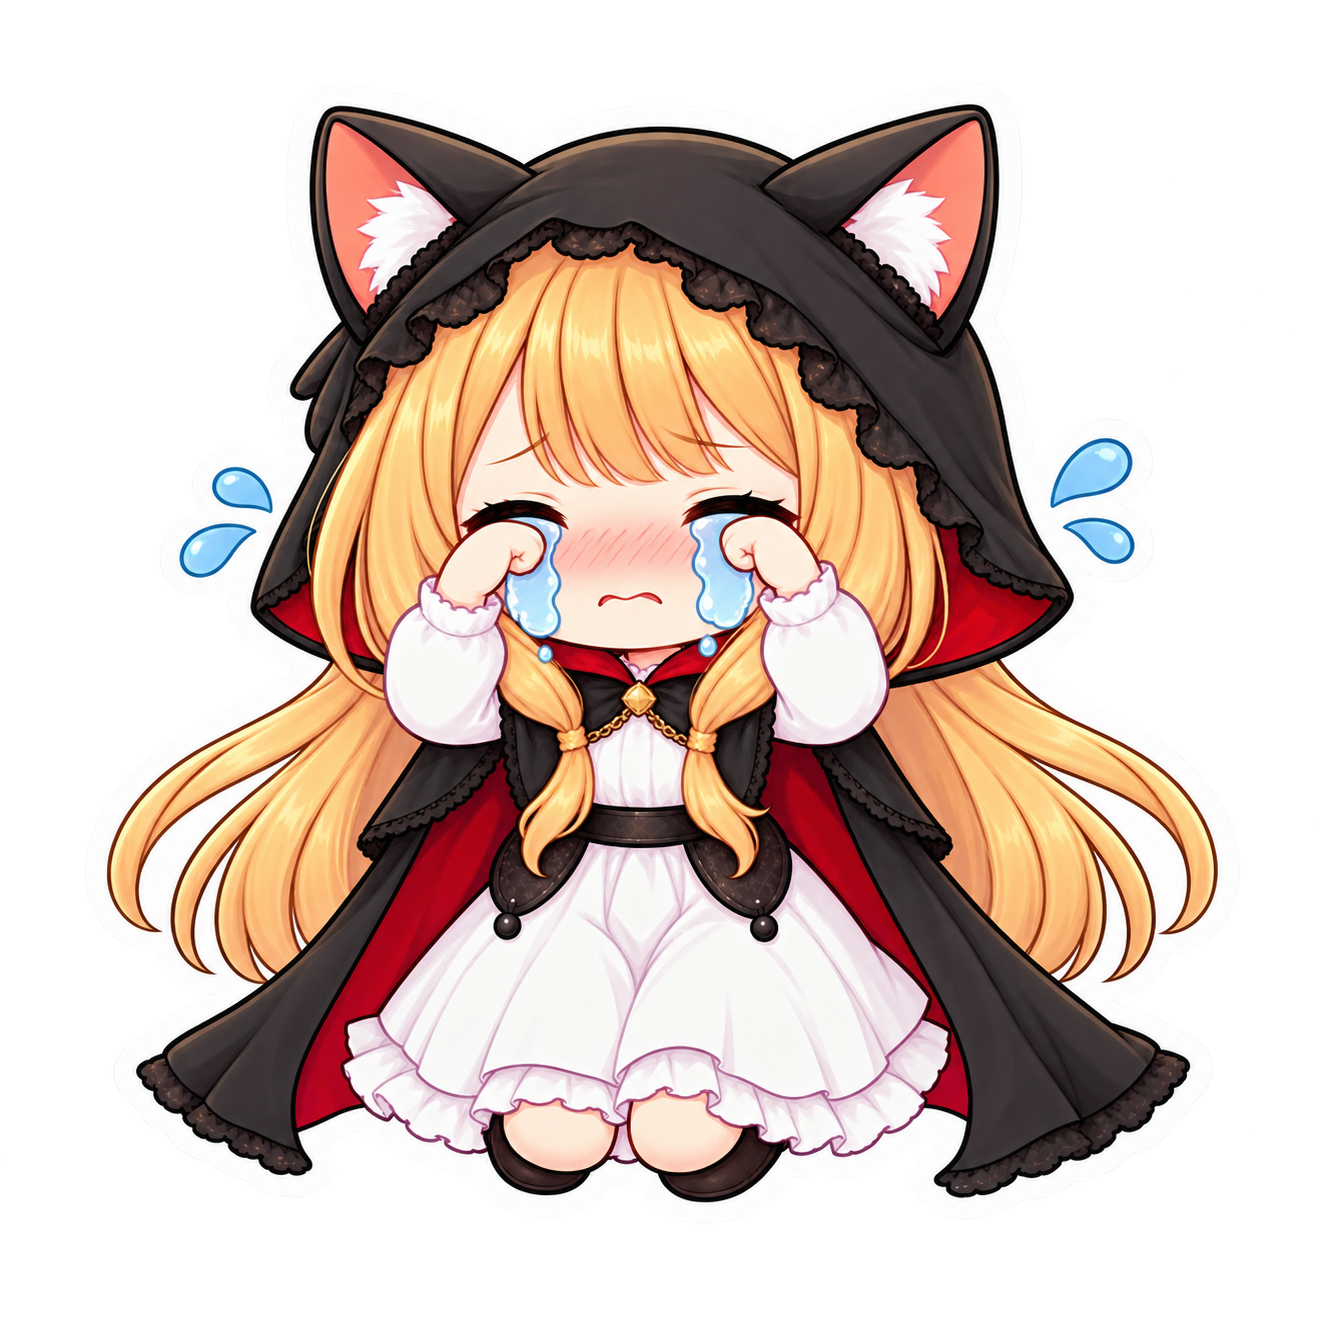
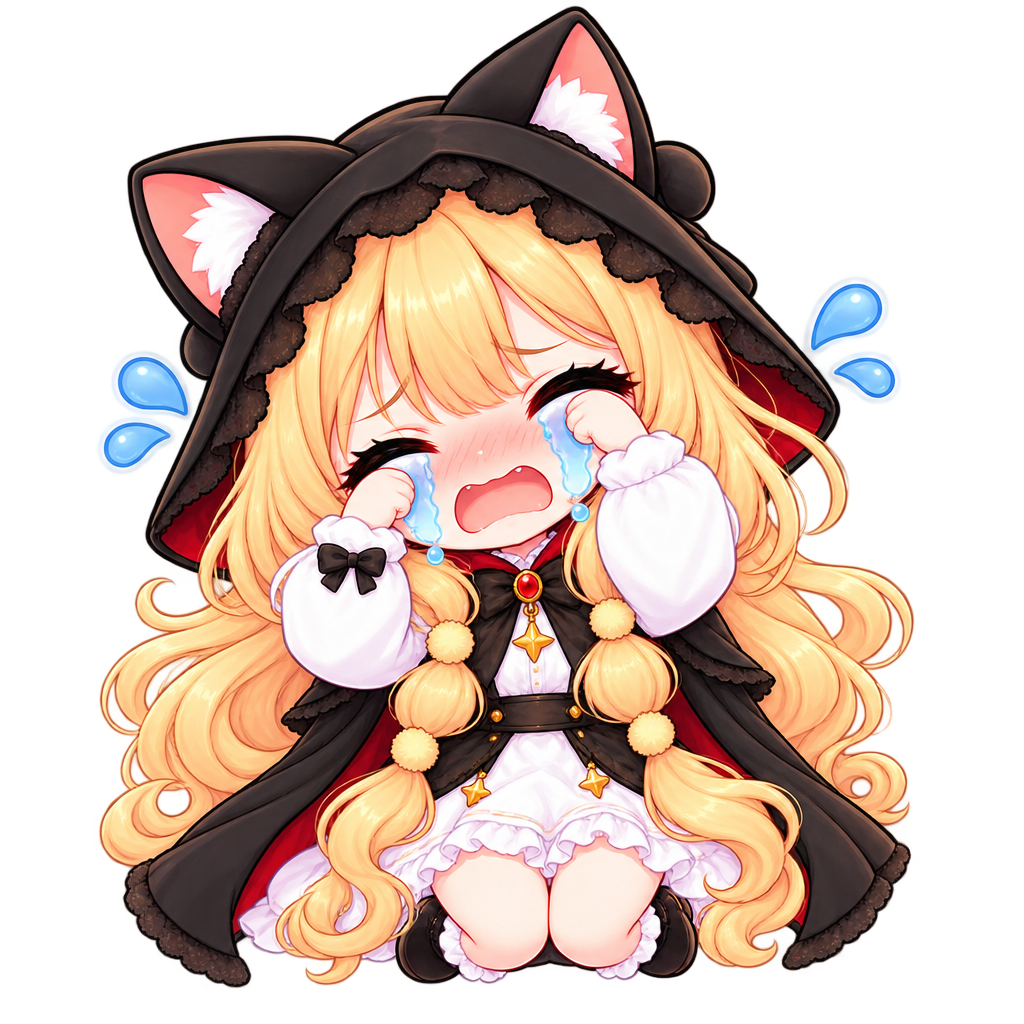
new stickers

diff --git a/index.html b/index.html
@@ -470,10 +470,11 @@
         (function() {
             // Меняйте PATCH_VERSION и PATCH_NOTE_TEXT при каждом обновлении сайта —
             // тогда уведомление покажется заново при первом заходе после обновления.
-            const PATCH_VERSION = '2026-09-06-2';
+            const PATCH_VERSION = '2026-09-06-3 ';
             const PATCH_NOTE_TEXT = `
                 <p>Что изменилось:</p>
                 <ul>
+                    <li>Добавлены новые стикеры а также улучшены старые</li>
                     <li>Рассортированы картинки и стикеры по парам</li>
                     <li>Были убраны не нужные стикеры</li>
                     <li>Добавленно 5 летающих стикеров вокруг окна</li>
@@ -860,13 +861,13 @@
 
             // Генерируем стикер-паки. Первый открыт по умолчанию, остальные скрыты.
             const stickerPackConfigs = [
-                { id: 'pack1', label: 'Наш 1 стикер пак😀', folder: 'assets/stickerpack/pack1', count: 46, defaultOpen: false },
+                { id: 'pack1', label: 'Наш 1 стикер пак😀', folder: 'assets/stickerpack/pack1', count: 49, defaultOpen: false },
                 { id: 'pack2', label: 'Наш 2 стикер пак😘', folder: 'assets/stickerpack/pack2', count: 25, defaultOpen: false },
-                { id: 'pack3', label: 'Наш 3 стикер пак🤩', folder: 'assets/stickerpack/pack3', count: 48, defaultOpen: false },
+                { id: 'pack3', label: 'Наш 3 стикер пак🤩', folder: 'assets/stickerpack/pack3', count: 49, defaultOpen: false },
                 { id: 'pack4', label: 'Наш 4 стикер пак😻', folder: 'assets/stickerpack/pack4', count: 45, defaultOpen: false },
-                { id: 'pack5', label: 'Наш 5 стикер пак👨🦱', folder: 'assets/stickerpack/pack5', count: 40, defaultOpen: false },
-                { id: 'pack6', label: 'Наш 6 общий стикер пак❤', folder: 'assets/stickerpack/pack6', count: 39, defaultOpen: false },
-                { id: 'pack7', label: 'Наш 7 красивые фото❤🔥', folder: 'assets/stickerpack/pack7', count: 42, defaultOpen: false },
+                { id: 'pack5', label: 'Наш 5 стикер пак👨🦱', folder: 'assets/stickerpack/pack5', count: 41, defaultOpen: false },
+                { id: 'pack6', label: 'Наш 6 общий стикер пак❤', folder: 'assets/stickerpack/pack6', count: 42, defaultOpen: false },
+                { id: 'pack7', label: 'Наш 7 красивые фото❤🔥', folder: 'assets/stickerpack/pack7', count: 50, defaultOpen: false },
             ];
 
             const SECRET_HEART_KEY = 'miraSecretHearts';
